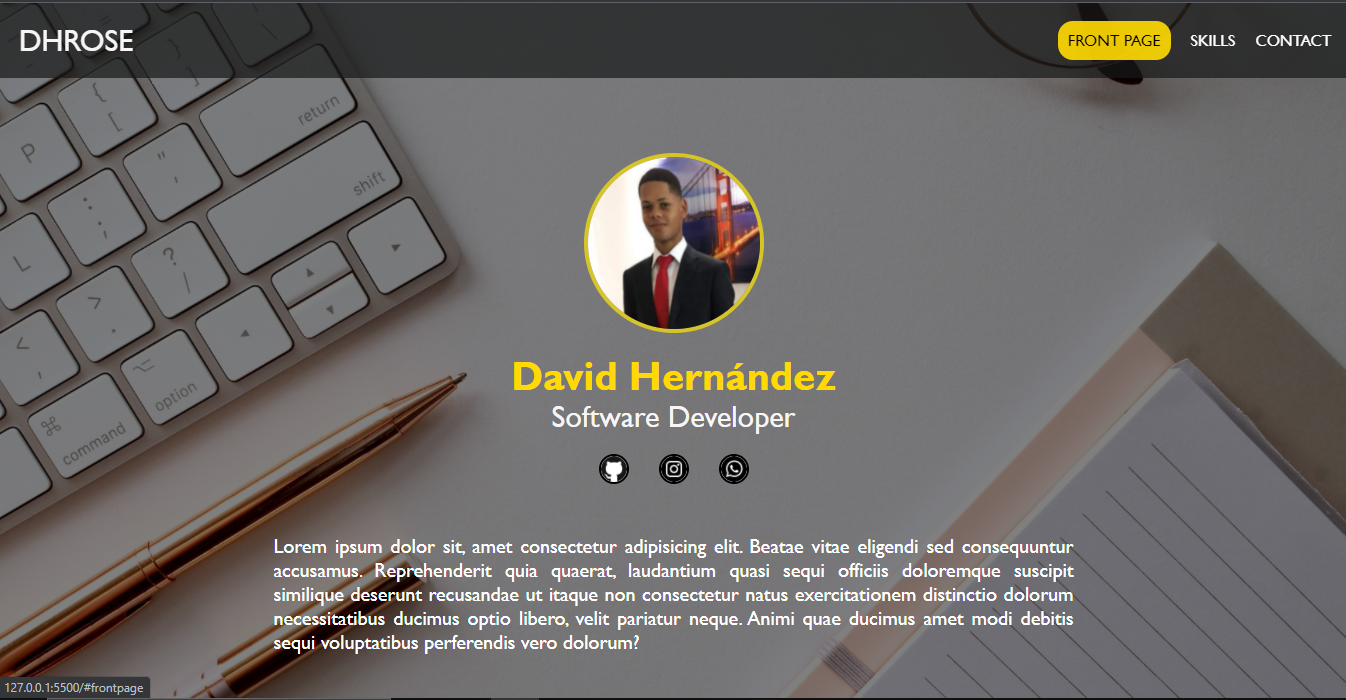
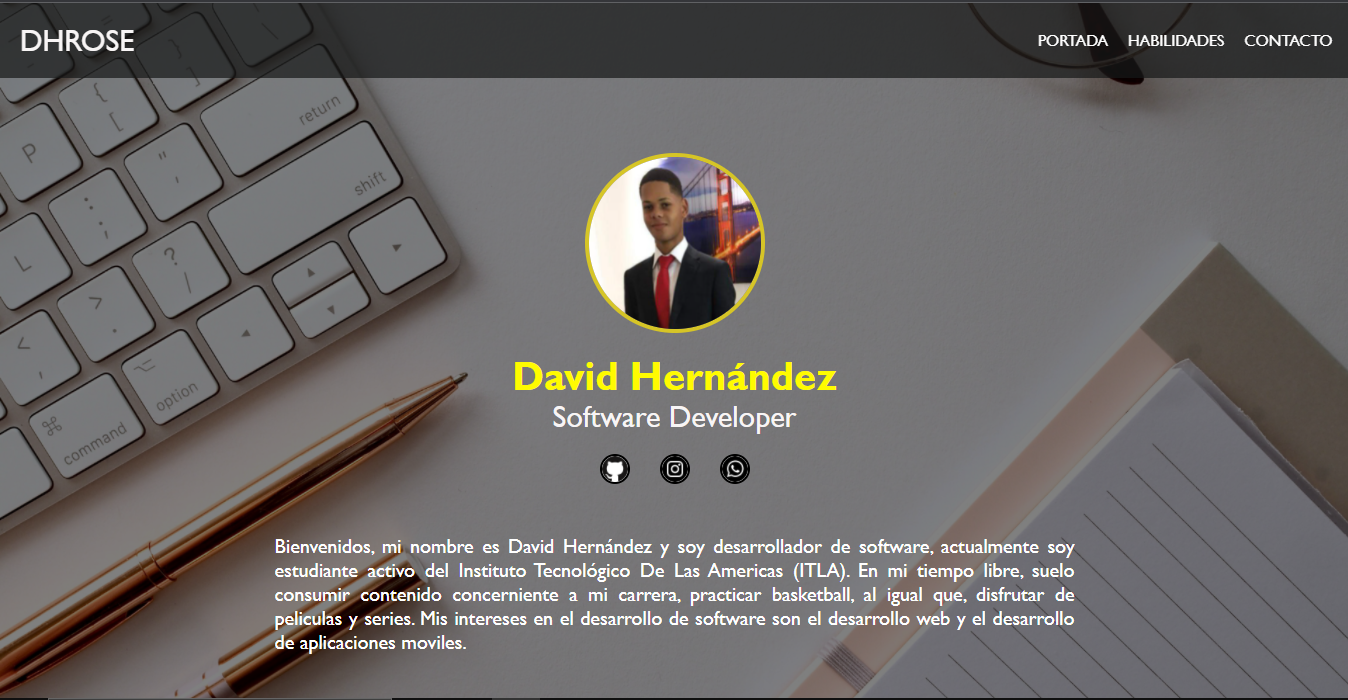
personal web v1 completed

diff --git a/index.html b/index.html
@@ -14,9 +14,9 @@
                     <p class="uppercase">Dhrose</p>
                 </div>       
                 <ul class="menu flex uppercase">
-                    <li><a href="#frontpage" class="menu-item">Front Page</a></li>
-                    <li><a href="#skills" class="menu-item">Skills</a></li>
-                    <li><a href="#contact" class="menu-item">Contact</a></li>
+                    <li><a href="#frontpage" class="menu-item">Portada</a></li>
+                    <li><a href="#skills" class="menu-item">Habilidades</a></li>
+                    <li><a href="#contact" class="menu-item">Contacto</a></li>
                 </ul>
             </nav>
 
@@ -31,10 +31,11 @@
                     <!-- <a href="" ><img src="assets/whatsapp.png" alt="gmail logo"></a> -->
                 </div>
                 <div class="description">
-                    <p class="d-text"> Lorem ipsum dolor sit, amet consectetur adipisicing elit. Beatae vitae eligendi sed consequuntur accusamus. Reprehenderit
-                        quia quaerat, laudantium quasi sequi officiis doloremque suscipit similique deserunt recusandae ut itaque non consectetur 
-                        natus exercitationem distinctio dolorum necessitatibus ducimus optio libero, velit pariatur neque. Animi quae ducimus amet 
-                        modi debitis sequi voluptatibus perferendis vero dolorum?</p>
+                    <p class="d-text"> 
+                        Bienvenidos, mi nombre es David Hernández y soy desarrollador de software, actualmente soy estudiante
+                        activo del Instituto Tecnológico De Las Americas (ITLA). En mi tiempo libre, suelo consumir contenido 
+                        concerniente a mi carrera, practicar basketball, al igual que, disfrutar de peliculas y series. Mis intereses
+                        en el desarrollo de software son el desarrollo web y el desarrollo de aplicaciones moviles. </p>
                 </div>
             </div>
         </header>
@@ -42,7 +43,7 @@
 
     <div class="section">
         <div class="skills center-text" id="skills">
-            <h2 class="skills uppercase flex">skills</h2>
+            <h2 class="skills uppercase flex">Habilidades</h2>
             <div class="center flex">
                 <img src="assets/html-5.png" alt="" class="skillsimg">
             </div>
@@ -65,10 +66,40 @@
             </div>
         </div>
     </div>
-    <img src="Captura1.PNG">
+    
     <div class="section">
         <div class="contact" id="contact">
-            <h2 class="uppercase center-text">Contact</h2>
+            <div class="flex contactsection">
+                <div class="contactinfo">
+                    <div class="contactinfo-b">
+                        <img src="assets/phone-call.png" alt="" class="contactimg">
+                        <p>Telefono</p>
+                        <p>(809)-850-8898</p>
+                    </div>
+                    <div class="contactinfo-b">
+                        <img src="assets/email.png" alt="" class="contactimg">
+                        <p>Correo electronico</p>
+                        <p>davidbhr04@gmail.com</p>
+                    </div>
+                    <div class="contactinfo-b">
+                        <img src="assets/map.png" alt="" class="contactimg">
+                        <p>Direccion</p>
+                        <p>Santo Domingo Este,<br>Republica Dominicana</p>
+                    </div>
+                </div>
+                
+                <div class="contactline"></div>
+                <div class="form">
+                    <h2 class="p-text">Enviame un mensaje</h2>
+                    <p class="">Lorem ipsum dolor sit, amet consectetur adipisicing elit. Nisi, aut dolorum? Quos, ab reprehenderit! Velit quisquam veniam doloribus magni, magnam rem ad voluptatum esse consequatur dolore assumenda placeat ex molestias.</p>
+                    <form>
+                        <input type="text" placeholder="Nombre">
+                        <input type="text" placeholder="Email">
+                        <textarea placeholder="Mensaje" cols="30" rows="10"></textarea>
+                        <button type="submit">Enviar</button>
+                    </form>
+                </div>
+            </div>
 
         </div>
     </div>

diff --git a/css/style.css b/css/style.css
@@ -10,7 +10,6 @@ body{
                 Calibri,
                 'Trebuchet MS',
                 sans-serif;
-    
 }
 
 header{
@@ -93,7 +92,7 @@ header{
 }
 
 .p-text{
-    color: rgb(255, 217, 0);
+    color: rgb(255, 251, 0);
 }
 
 .s-text{
@@ -126,7 +125,6 @@ header{
     margin: 100px 0px 0px 0px;
     justify-content: center;
     align-items: center;
-
 }
 
 .skillsimg{
@@ -148,8 +146,73 @@ header{
 
 .contact{
     margin: 200px 0px 0px 0px;
+    padding: 15px;
+        
 }
 
 .center{
     justify-content: center;
+}
+
+.form{
+    width: 35%;
+    margin: 50px 0px 0px 80px;
+    text-align: justify;
+}
+
+.form form input,.form form textarea{
+    display: block ;
+    margin: 25px 15px;
+    padding: 10px;
+    width: 450px;
+    
+}
+
+.form form button{
+    display: block ;
+    margin: 25px 15px;
+    padding: 10px;
+    width: 80px;
+    border: 1px solid;
+    border-radius: 5px;
+}
+
+.form p, .form h2{
+    margin: 5px 0px 0px 15px;
+} 
+
+.contactinfo{   
+    text-align: center;
+    margin: 0px 0px 0px 50px;
+    display: block;
+}
+
+.contactimg{
+    margin: 15px auto;
+    margin-bottom: 10px;
+    width: 40px;
+    height: 40px;
+}
+
+.contactline{
+    background-color: rgb(196, 196, 196);
+    height: 350px;
+    width: 2px;
+    margin: 120px 0px 0px 60px;
+}
+
+.contactinfo-b{
+    margin: 60px 0px 30px 0px;
+    
+}
+
+.contactsection{
+    margin-top: 20px;
+    justify-content: center;
+    border: 1px solid black;
+    align-items: center;
+    border-radius: 30px;
+    box-shadow: black 10px 10px 30px;
+    color: white;
+    background-image: linear-gradient(to right, #a8caba 0%, #5d4157 100%);
 }

diff --git a/README.md b/README.md
@@ -3,4 +3,5 @@ Esta es la tarea #1 de David Hernandez referente a la asignatura programacion we
 Capturas del resultado:
 <img src="Captura1.PNG">
 <img src="Captura2.PNG">
+<img src="Captura3.PNG">
 
